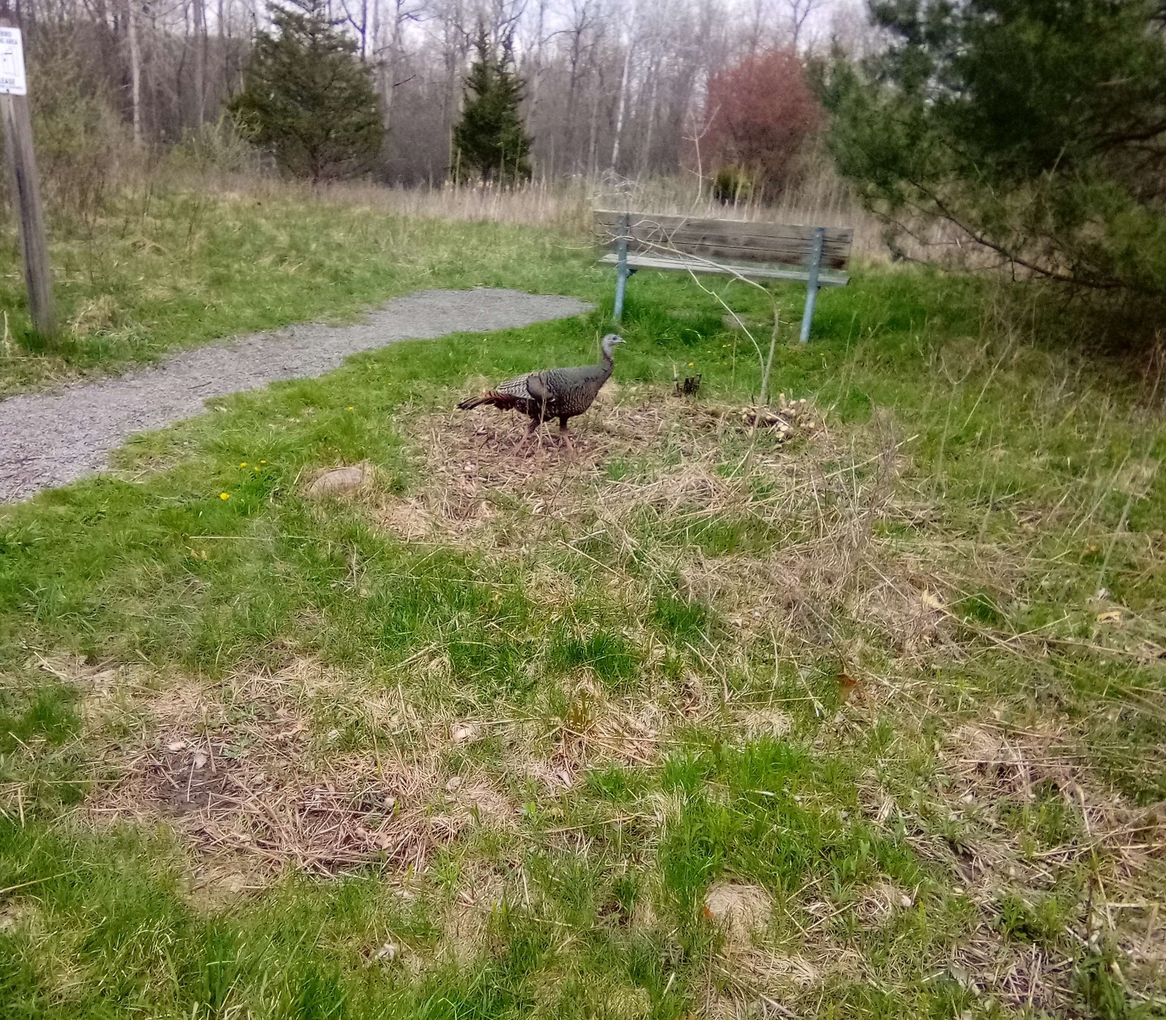
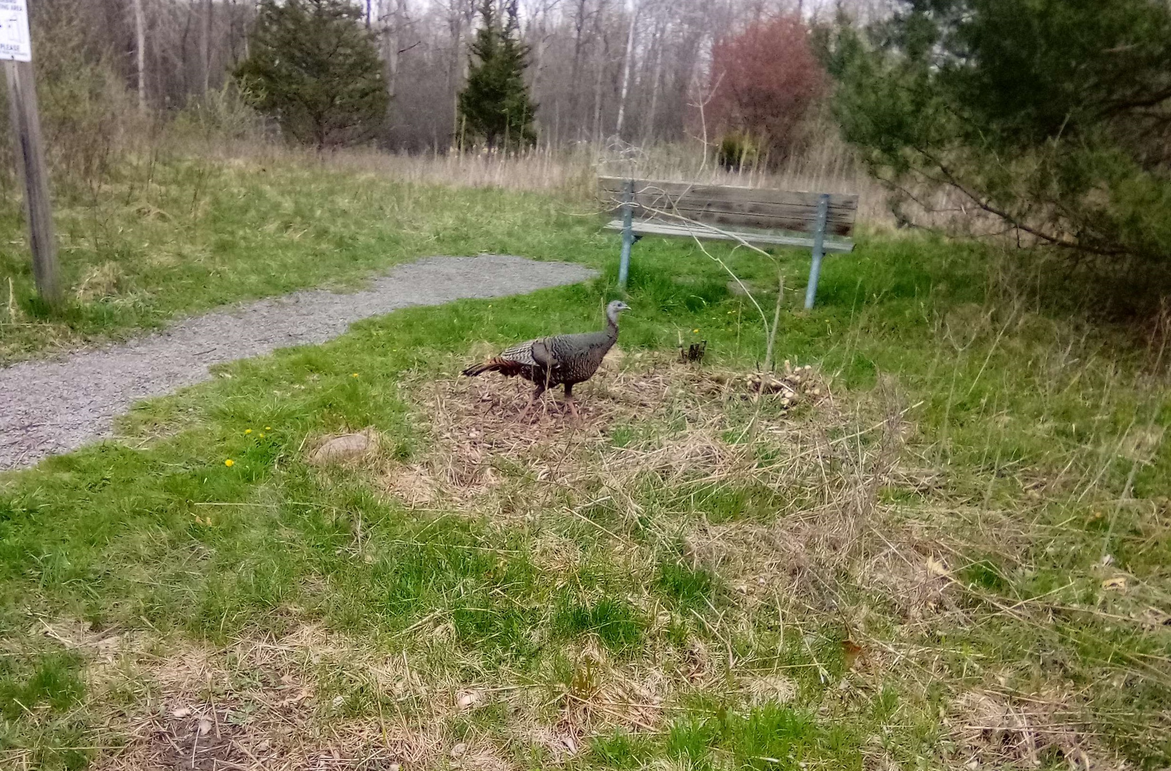
Images now adjust to different screen sizes

diff --git a/src/main/resources/static/css/style.css b/src/main/resources/static/css/style.css
@@ -166,9 +166,21 @@
 
 .img-slider > img {
   position: absolute;
-  top: 0;
+  /* top: 0;
+  left: 0; */
+
+  /* margin-left: auto;
+  margin-right: auto;
   left: 0;
-  width: 100%;
+  right: 0;
+  text-align: center; */
+
+  top: 50%;  
+  left: 50%; 
+  transform: translate(-50%, -50%);
+
+  min-width: 100%;
+  min-height: 100%;
   opacity: 0;
   z-index: 0;
 
